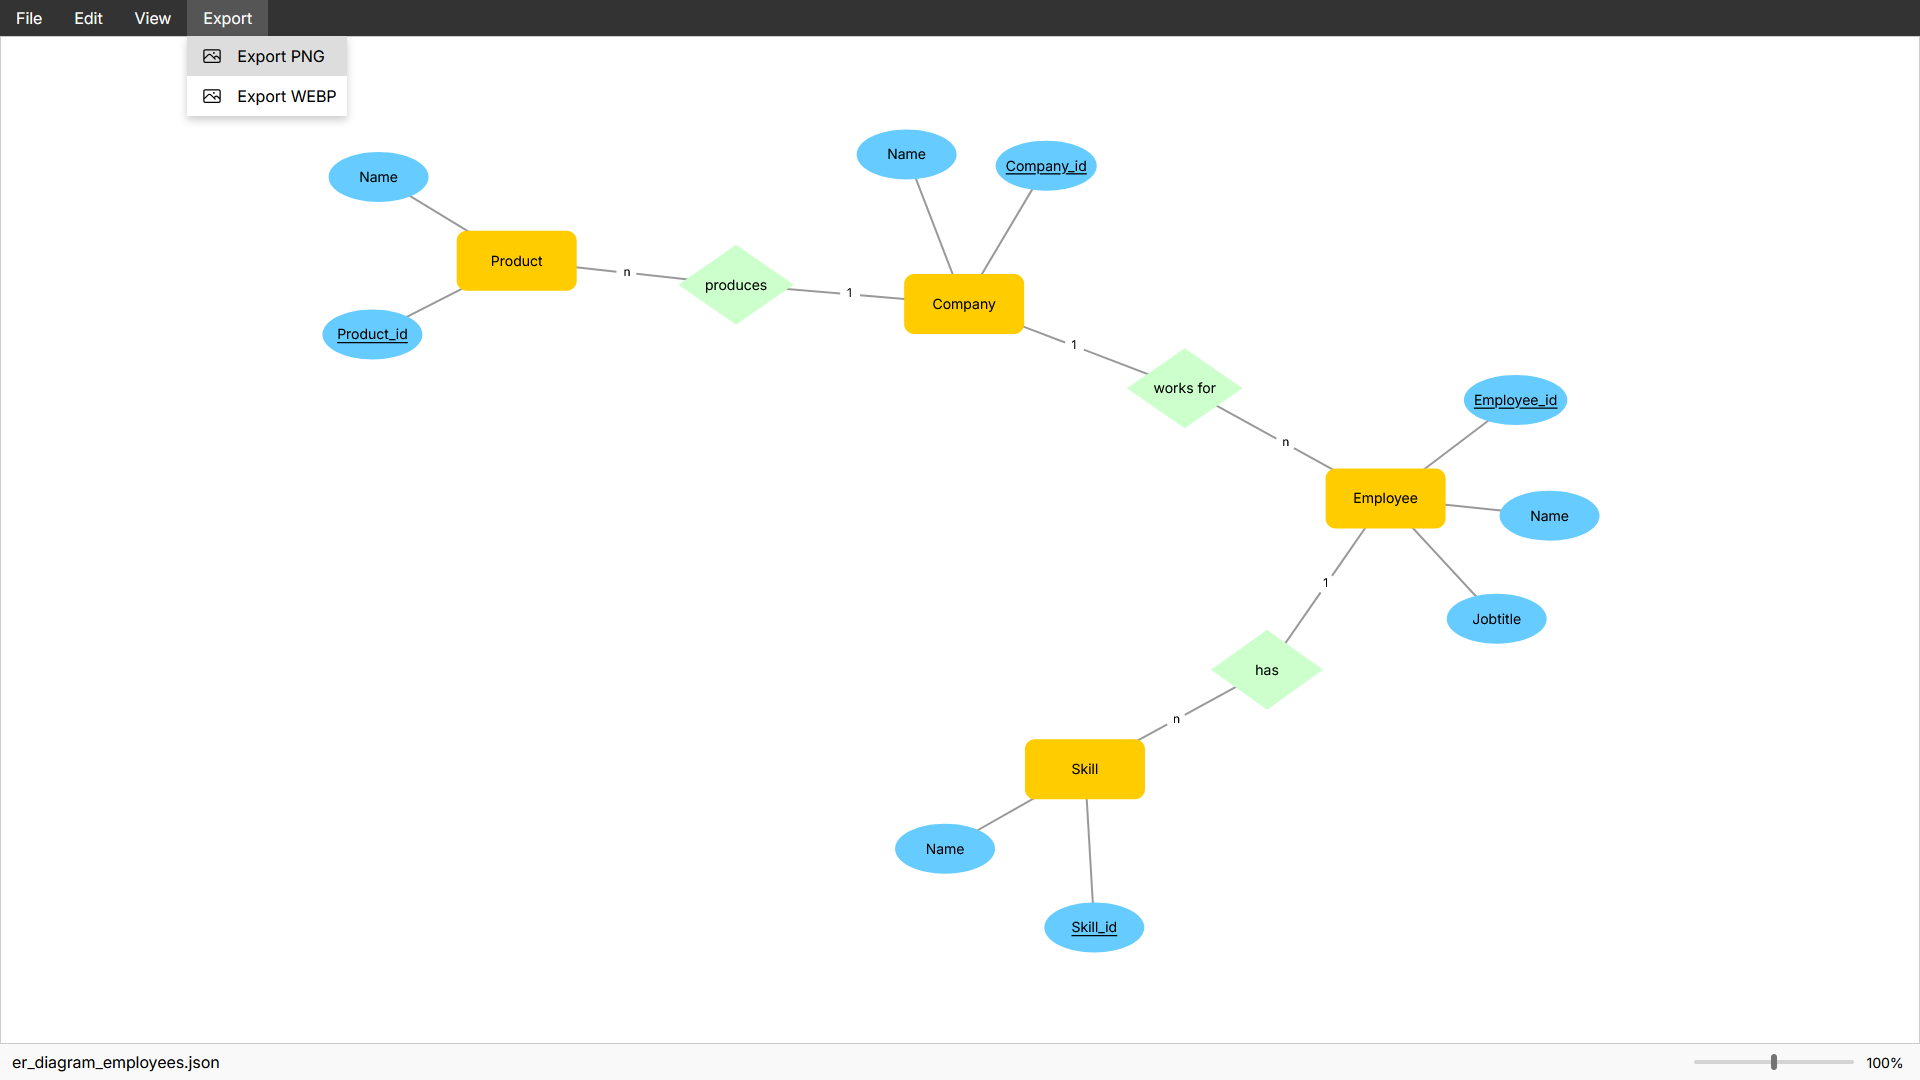
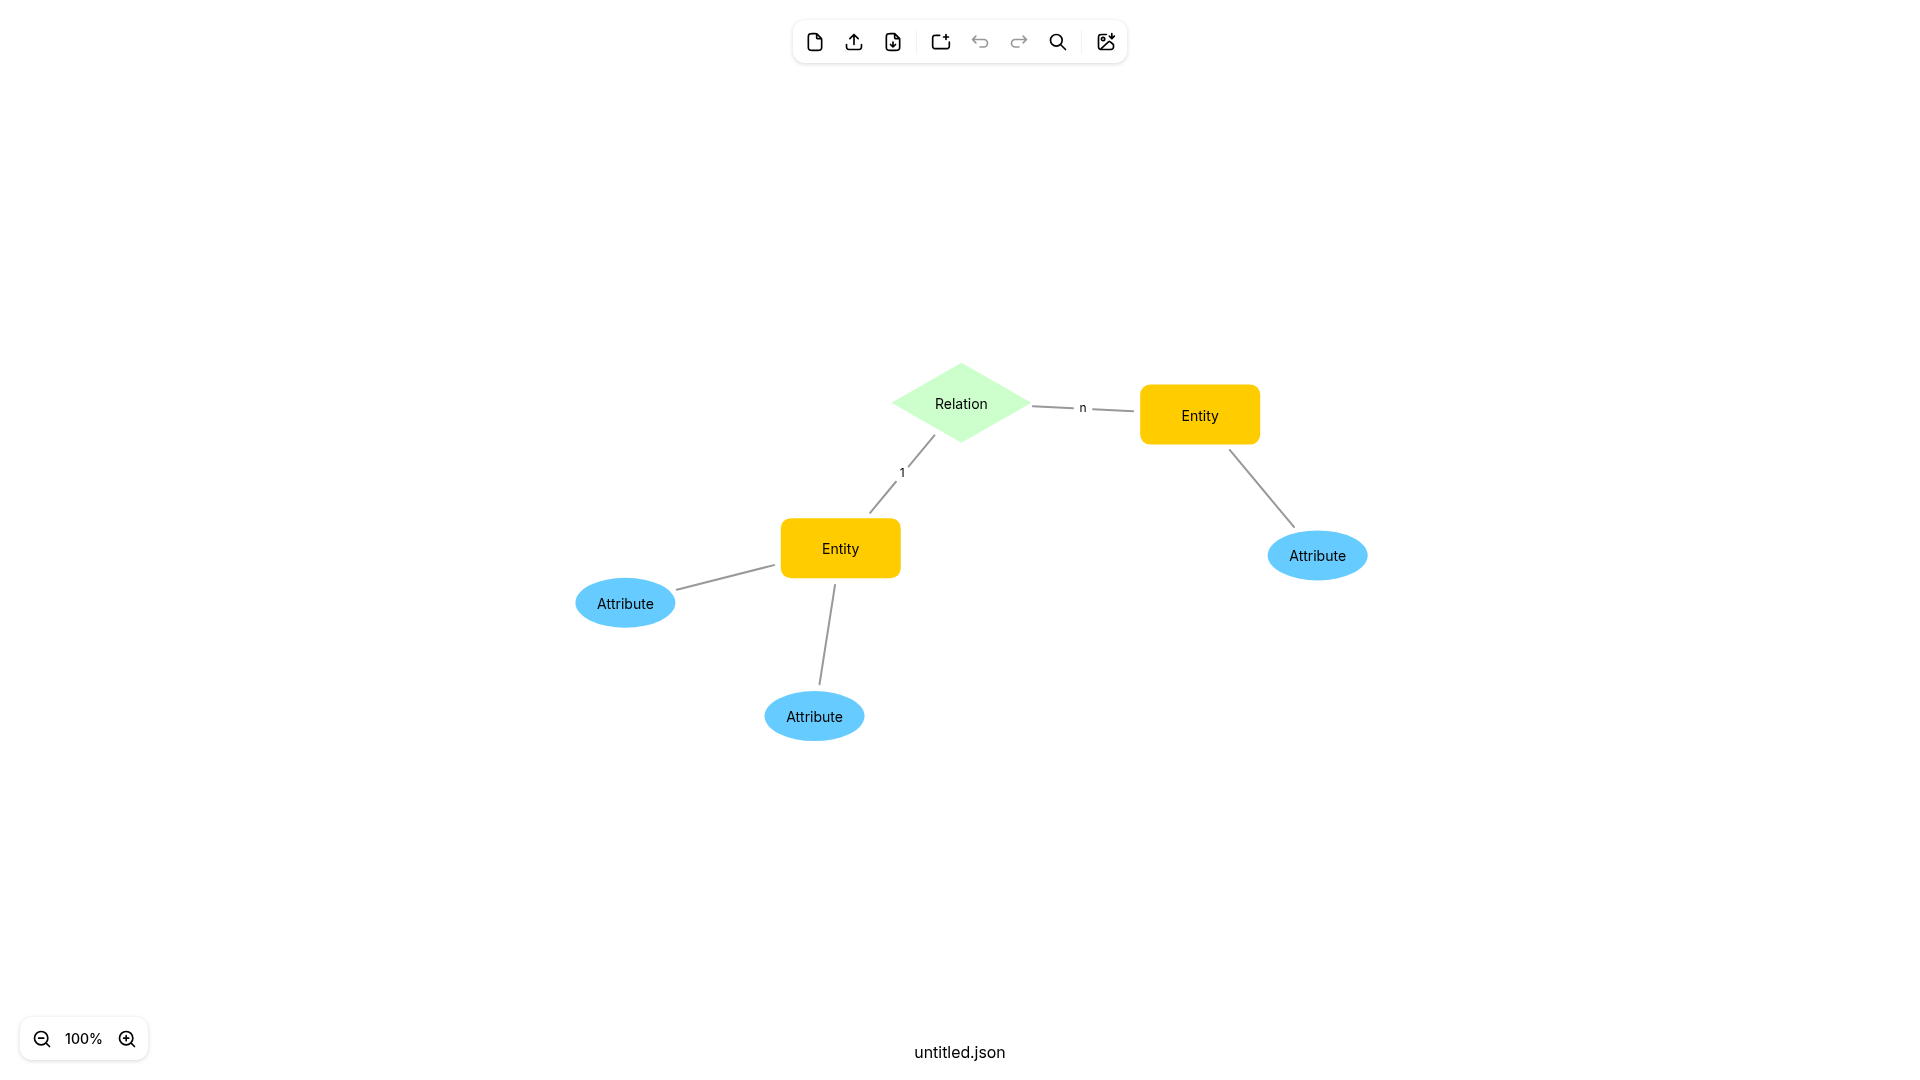
updated image and image representation

diff --git a/src/index.css b/src/index.css
@@ -326,7 +326,15 @@ a[href^="mailto:"] {
     overflow: hidden;
 }
 
-.project .image_wrapper img {
+.project .image_wrapper {
+    width: 300px;
+    max-width: 100%;
+    flex: 0 auto;
+    aspect-ratio: 16/9;
+    overflow: hidden;
+    background-size: cover;
+    background-position: center;
+    background-repeat: no-repeat;
     border-radius: 3px;
 }
 
